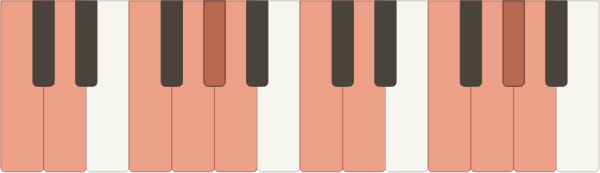
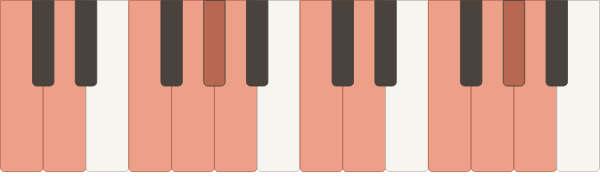
Soften borders on pressed keys in default style

diff --git a/src/PianoStyled.stories.tsx b/src/PianoStyled.stories.tsx
@@ -89,9 +89,10 @@ export const Interactive: Story = () => {
 }
 
 export const GreenColors: Story = () => (
-  <div style={{ width: '600px' }} className="custom-colors-piano">
-    <Piano pressed={['C4', 'E4', 'G4']} />
-    <style>{`
+  <div>
+    <div style={{ width: '600px' }} className="custom-colors-piano">
+      <Piano pressed={['C4', 'E4', 'G4']} />
+      <style>{`
       .custom-colors-piano {
         --piano-key-diatonic-fill: #f0f0f0;
         --piano-key-diatonic-pressed-fill: #4CAF50;
@@ -102,6 +103,7 @@ export const GreenColors: Story = () => (
         --piano-key-chromatic-highlighted-fill: #81C784;
       }
     `}</style>
+    </div>
     <div
       style={{
         fontFamily: 'monospace',
@@ -116,9 +118,10 @@ export const GreenColors: Story = () => (
 )
 
 export const RainbowKeys: Story = () => (
-  <div style={{ width: '600px' }} className="rainbow-piano">
-    <Piano />
-    <style>{`
+  <div>
+    <div style={{ width: '600px' }} className="rainbow-piano">
+      <Piano />
+      <style>{`
       .rainbow-piano {
         --piano-key-diatonic-stroke: #999;
         --piano-key-stroke-width: 2;
@@ -130,6 +133,7 @@ export const RainbowKeys: Story = () => (
       .rainbow-piano .diatonic-piano-key-D5 { fill: #9BE0F1; }
       .rainbow-piano .diatonic-piano-key-E5 { fill: #A2ACEB; }
     `}</style>
+    </div>
     <div
       style={{
         fontFamily: 'monospace',

diff --git a/src/styles.css b/src/styles.css
@@ -52,7 +52,7 @@
   fill: var(--piano-key-diatonic-pressed-fill, #e07858);
   stroke: var(
     --piano-key-diatonic-pressed-stroke,
-    var(--piano-key-diatonic-stroke, #3d3530)
+    var(--piano-key-diatonic-stroke, #b8624c)
   );
   stroke-width: var(--piano-key-stroke-width, 2);
 }
@@ -69,7 +69,7 @@
   fill: var(--piano-key-chromatic-highlighted-fill, #b86850);
   stroke: var(
     --piano-key-chromatic-highlighted-stroke,
-    var(--piano-key-chromatic-stroke, #503028)
+    var(--piano-key-chromatic-stroke, #4a423c)
   );
   stroke-width: var(--piano-key-stroke-width, 2);
 }
@@ -79,7 +79,7 @@
   fill: var(--piano-key-chromatic-pressed-fill, #c04838);
   stroke: var(
     --piano-key-chromatic-pressed-stroke,
-    var(--piano-key-chromatic-stroke, #2d2520)
+    var(--piano-key-chromatic-stroke, #4a423c)
   );
   stroke-width: var(--piano-key-stroke-width, 2);
 }

diff --git a/src/constants.ts b/src/constants.ts
@@ -25,11 +25,11 @@ export const KEY_COLORS = {
   diatonic: {
     default: { fill: '#f7f5f0', stroke: '#c0b8b0' },
     highlighted: { fill: '#eca088', stroke: '#b8624c' },
-    pressed: { fill: '#e07858', stroke: '#3d3530' },
+    pressed: { fill: '#e07858', stroke: '#b8624c' },
   },
   chromatic: {
     default: { fill: '#4a423c', stroke: '#4a423c' },
-    highlighted: { fill: '#b86850', stroke: '#503028' },
-    pressed: { fill: '#c04838', stroke: '#2d2520' },
+    highlighted: { fill: '#b86850', stroke: '#4a423c' },
+    pressed: { fill: '#c04838', stroke: '#4a423c' },
   },
 } as const

diff --git a/src/PianoUnstyled.stories.tsx b/src/PianoUnstyled.stories.tsx
@@ -190,6 +190,7 @@ export const SynchronizedPianos: Story = () => {
           <Piano
             pressed={pressed}
             highlighted={highlighted}
+            focusable={true}
             onClick={n => setPressed(state => state.toggle(n))}
             onMouseEnter={n => setHighlighted(new NoteList([n]))}
             onMouseLeave={() => setHighlighted(new NoteList())}

diff --git a/README.md b/README.md
@@ -23,11 +23,10 @@ Interactive SVG piano as a React component.
 npm install @diatonic/piano
 ```
 
-Then import the component and default styles:
+Then import the component:
 
 ```jsx
 import { Piano } from "@diatonic/piano";
-import "@diatonic/piano/styles.css";
 
 function App() {
   return <Piano />;
@@ -48,7 +47,7 @@ The following props can be set to modify the static piano:
 
 | Prop                | Description                                                                                                               | Default           |
 | ------------------- | ------------------------------------------------------------------------------------------------------------------------- | ----------------- |
-| octaves             |  Number of octaves                                                                                                        | `2`               |
+| octaves             | Number of octaves                                                                                                         | `2`               |
 | width               | Width of the \<svg\> element                                                                                              | `'100%'`          |
 | height              | Height of the \<svg\> element                                                                                             | `'100%'`          |
 | preserveAspectRatio | Attribute for \<svg\> element [(details)](https://developer.mozilla.org/en-US/docs/Web/SVG/Attribute/preserveAspectRatio) | `'xMinYMin meet'` |
@@ -60,7 +59,7 @@ Two props can be used to set a key as _pressed_ or _highlighted_. There are no r
 | Prop        | Description               | Default |
 | ----------- | ------------------------- | ------- |
 | pressed     | Keys will be pressed      | `[]`    |
-| highlighted |  Keys will be highlighted | `[]`    |
+| highlighted | Keys will be highlighted  | `[]`    |
 
 As an example, you can press _F4_, _A4_, and _C#5_ to highlight an F augmented chord:
 
@@ -82,19 +81,25 @@ import { scale } from "kamasi";
 
 ### Styling
 
-The piano is styled using a CSS-first approach. You have three ways to customize the appearance:
+#### No CSS (Default)
 
-#### Basic CSS Styling
+The piano includes built-in default colors via SVG presentation attributes, so it works out-of-the-box with sensible default colors:
 
-Import the default styles to get a classic black and white piano:
+```jsx
+import { Piano } from "@diatonic/piano";
+
+<Piano />
+```
+
+Colors are defined in `KEY_COLORS` (exported from the package) and can be referenced or modified if needed.
+
+#### CSS Variables
+
+Import the default stylesheet to override variables:
 
 ```jsx
 import "@diatonic/piano/styles.css";
 ```
-
-#### CSS Variables
-
-The easiest way to customize colors is with CSS variables:
 
 ```css
 :root {
@@ -126,12 +131,12 @@ The easiest way to customize colors is with CSS variables:
 | `--piano-key-chromatic-pressed-fill`       | Black key pressed color                 | `#c04838`          |
 | `--piano-key-chromatic-highlighted-fill`   | Black key highlighted color             | `#b86850`          |
 | `--piano-key-diatonic-stroke`              | White key border color                  | `#c0b8b0`          |
-| `--piano-key-chromatic-stroke`             | Black key border color                  | `#4a423c`          |
-| `--piano-key-stroke-width`                 | Border width for all keys               | `2`                |
-| `--piano-key-diatonic-pressed-stroke`      | (Optional) White key pressed border     | `#3d3530`          |
+| `--piano-key-diatonic-pressed-stroke`      | (Optional) White key pressed border     | `#b8624c`          |
 | `--piano-key-diatonic-highlighted-stroke`  | (Optional) White key highlighted border | `#b8624c`          |
-| `--piano-key-chromatic-pressed-stroke`     | (Optional) Black key pressed border     | `#2d2520`          |
-| `--piano-key-chromatic-highlighted-stroke` | (Optional) Black key highlighted border | `#503028`          |
+| `--piano-key-chromatic-stroke`             | Black key border color                  | `#4a423c`          |
+| `--piano-key-chromatic-pressed-stroke`     | (Optional) Black key pressed border     | `#4a423c`          |
+| `--piano-key-chromatic-highlighted-stroke` | (Optional) Black key highlighted border | `#4a423c`          |
+| `--piano-key-stroke-width`                 | Border width for all keys               | `2`                |
 
 #### Advanced CSS Targeting
 
@@ -160,26 +165,31 @@ For maximum control, target CSS classes and data attributes directly:
 ```css
 /* Using a parent class ensures proper specificity */
 #rainbow-piano {
-  --piano-key-diatonic-stroke: #999;
   --piano-key-stroke-width: 2;
 }
 #rainbow-piano .diatonic-piano-key-G4 {
   fill: #f898a4;
+  stroke: #f07090;
 }
 #rainbow-piano .diatonic-piano-key-A4 {
   fill: #fcda9c;
+  stroke: #f0c888;
 }
 #rainbow-piano .diatonic-piano-key-B4 {
   fill: #f7faa1;
+  stroke: #e8ec88;
 }
 #rainbow-piano .diatonic-piano-key-C5 {
   fill: #b4f6a4;
+  stroke: #98e088;
 }
 #rainbow-piano .diatonic-piano-key-D5 {
   fill: #9be0f1;
+  stroke: #80d0e0;
 }
 #rainbow-piano .diatonic-piano-key-E5 {
   fill: #a2aceb;
+  stroke: #8898d8;
 }
 ```
 
@@ -241,6 +251,11 @@ export default App;
 See [kamasi's](https://github.com/vegardege/kamasi) documentation for more manipulation you can do, or check the Diatonic web site for inspiration.
 
 ### Accessibility
+
+The component automatically adapts its ARIA roles based on usage:
+
+- **Display mode** (default): `role="img"` with descriptive labels for screen readers
+- **Interactive mode** (`focusable` or `keyboardShortcuts`): `role="group"` containing interactive buttons
 
 If you enable interactivity through use of the mouse, it's strongly encouraged that you also enable keyboard access for users who can't (or prefer not to) use a mouse or track pad. The component offers two compatible modes of keyboard access:
 
